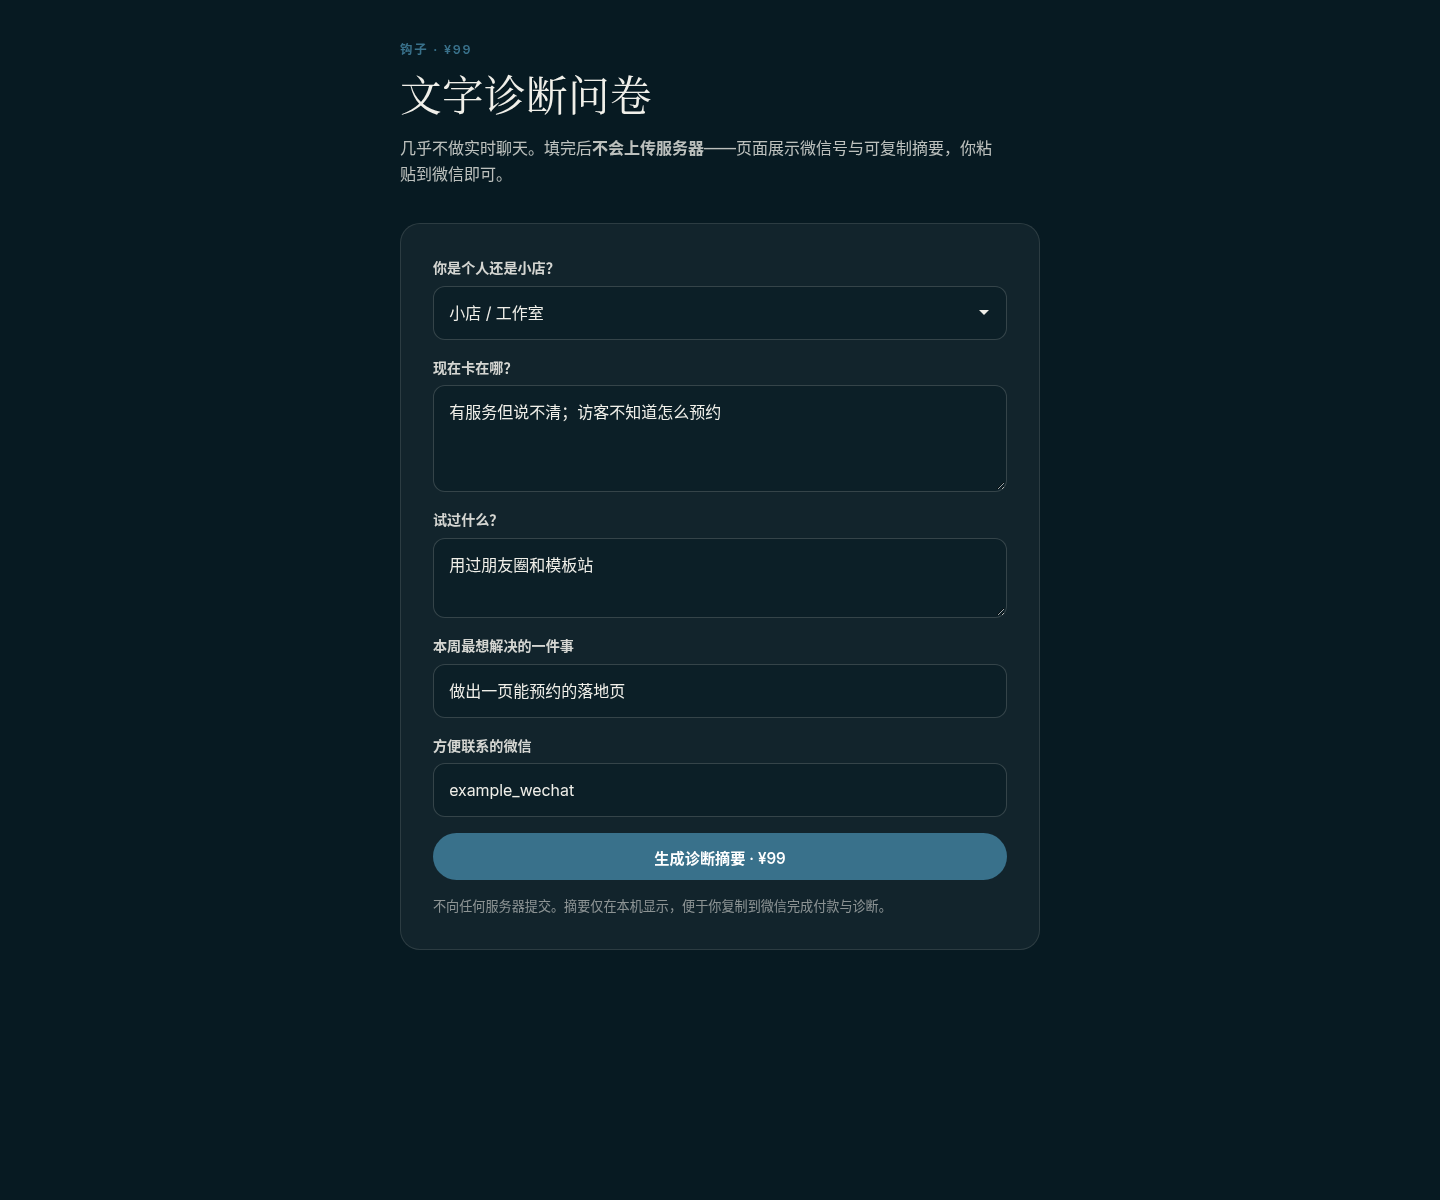
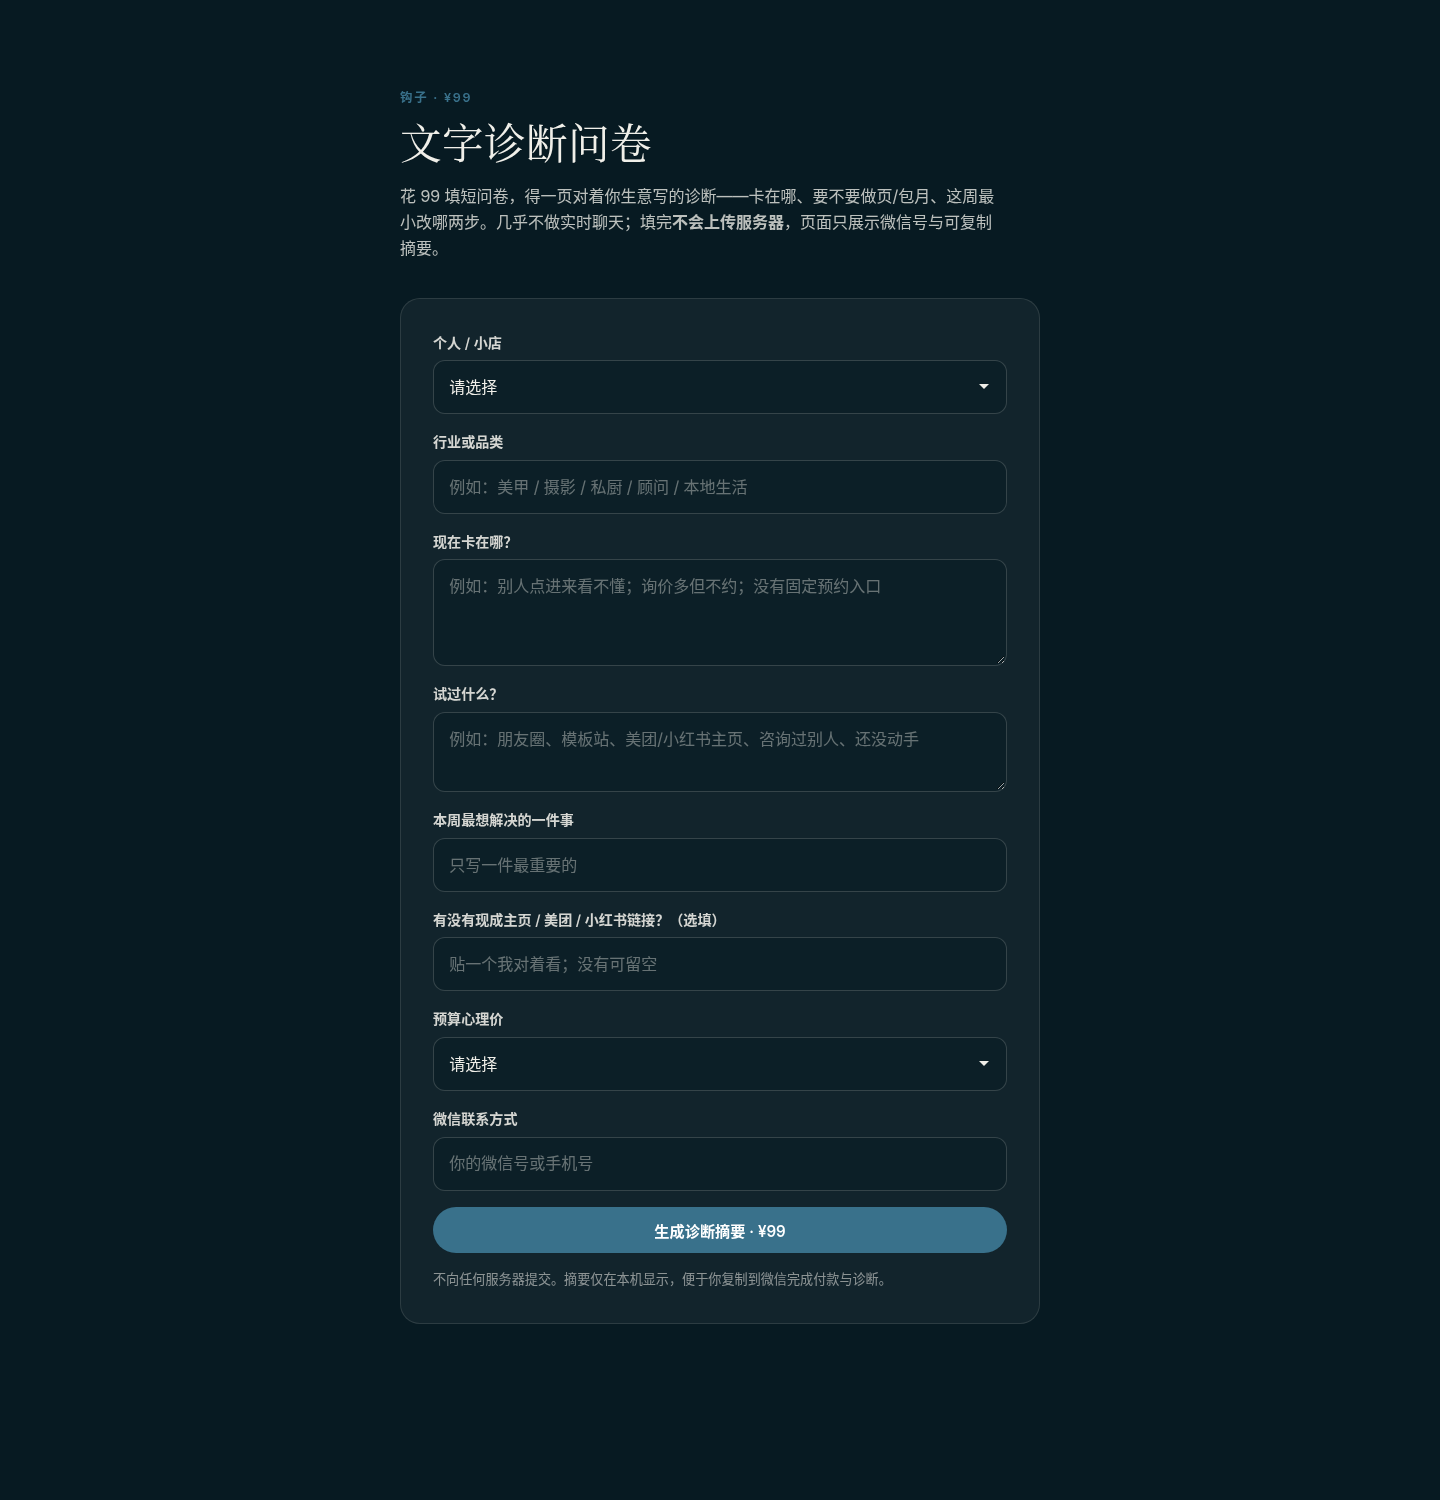
feat: align 99 diagnosis fields with copy pack
Eight fields: who, industry, stuck, tried, this week, links,
budget, WeChat. Hook sell line matches 99-diagnosis-pack.

Changed region(s): [[0.2812, 0.4317, 0.7188, 0.8633], [0.2812, 0.2158, 0.5938, 0.4008], [0.2812, 0.0308, 0.6875, 0.185]]

diff --git a/index.html b/index.html
@@ -40,8 +40,8 @@
         <p class="eyebrow">主推 · 企业落地页 / 小工具定制</p>
         <h1>一页说清价值，<br />或做一个能跑通的小工具。</h1>
         <p class="hero-lead">
-          面向小店、独立顾问与轻业务团队：定制落地页、预约页或浏览器端小工具，
-          可升级内容包月维护。先用 <strong>99 元文字诊断</strong> 对齐问题，再决定要不要做。
+          面向小店、独立顾问与轻业务团队：定制落地页、预约页或浏览器端小工具，可升级内容包月。
+          花 <strong>99</strong> 填短问卷，得一页对着你生意写的诊断——卡在哪、要不要做页/包月、这周最小改哪两步。
         </p>
         <div class="hero-actions">
           <a href="#offer" class="btn btn-primary">了解落地页 / 定制</a>
@@ -100,13 +100,13 @@
         <header class="section-head light">
           <p class="eyebrow">钩子 · ¥99</p>
           <h2>文字诊断问卷</h2>
-          <p class="section-desc">几乎不做实时聊天。填完后<strong>不会上传服务器</strong>——页面展示微信号与可复制摘要，你粘贴到微信即可。</p>
+          <p class="section-desc">花 99 填短问卷，得一页对着你生意写的诊断——卡在哪、要不要做页/包月、这周最小改哪两步。几乎不做实时聊天；填完<strong>不会上传服务器</strong>，页面只展示微信号与可复制摘要。</p>
         </header>
 
         <div class="booking-panel">
           <form id="diagnosis-form" class="booking-form" novalidate>
             <div class="field">
-              <label for="who">你是个人还是小店？</label>
+              <label for="who">个人 / 小店</label>
               <select id="who" name="who" required>
                 <option value="">请选择</option>
                 <option value="个人副业 / 自由职业">个人副业 / 自由职业</option>
@@ -116,19 +116,38 @@
               </select>
             </div>
             <div class="field">
+              <label for="industry">行业或品类</label>
+              <input id="industry" name="industry" type="text" required placeholder="例如：美甲 / 摄影 / 私厨 / 顾问 / 本地生活" />
+            </div>
+            <div class="field">
               <label for="stuck">现在卡在哪？</label>
-              <textarea id="stuck" name="stuck" rows="3" required placeholder="例如：有服务但说不清；访客不知道怎么预约；想做落地页不知从哪写起"></textarea>
+              <textarea id="stuck" name="stuck" rows="3" required placeholder="例如：别人点进来看不懂；询价多但不约；没有固定预约入口"></textarea>
             </div>
             <div class="field">
               <label for="tried">试过什么？</label>
-              <textarea id="tried" name="tried" rows="2" required placeholder="例如：用过朋友圈 / 模板站 / 咨询过别人 / 还没动手"></textarea>
+              <textarea id="tried" name="tried" rows="2" required placeholder="例如：朋友圈、模板站、美团/小红书主页、咨询过别人、还没动手"></textarea>
             </div>
             <div class="field">
               <label for="thisweek">本周最想解决的一件事</label>
               <input id="thisweek" name="thisweek" type="text" required placeholder="只写一件最重要的" />
             </div>
             <div class="field">
-              <label for="wechat-contact">方便联系的微信</label>
+              <label for="links">有没有现成主页 / 美团 / 小红书链接？（选填）</label>
+              <input id="links" name="links" type="text" placeholder="贴一个我对着看；没有可留空" />
+            </div>
+            <div class="field">
+              <label for="budget">预算心理价</label>
+              <select id="budget" name="budget" required>
+                <option value="">请选择</option>
+                <option value="先只想付 99 看诊断">先只想付 99 看诊断</option>
+                <option value="落地页 3千以内可考虑">落地页 3千以内可考虑</option>
+                <option value="3千–8千可谈">3千–8千可谈</option>
+                <option value="包月内容也想了解">包月内容也想了解</option>
+                <option value="还不确定 / 看诊断再说">还不确定 / 看诊断再说</option>
+              </select>
+            </div>
+            <div class="field">
+              <label for="wechat-contact">微信联系方式</label>
               <input id="wechat-contact" name="wechatContact" type="text" required placeholder="你的微信号或手机号" autocomplete="username" />
             </div>
             <button type="submit" class="btn btn-primary btn-block">生成诊断摘要 · ¥99</button>
@@ -288,7 +307,7 @@
           </details>
           <details class="faq-item">
             <summary>99 元文字诊断怎么进行？</summary>
-            <p>填写本页问卷 → 复制摘要加微信 → 付款后以文字形式反馈。几乎不做实时连麦，适合先对齐问题再决定要不要做落地页。</p>
+            <p>填写本页短问卷 → 复制摘要加微信 → 付 99 后以文字形式反馈：卡在哪、要不要做页/包月、这周最小改哪两步。几乎不做实时连麦。</p>
           </details>
           <details class="faq-item">
             <summary>问卷提交后会发生什么？</summary>

diff --git a/app.js b/app.js
@@ -52,15 +52,21 @@
   }
 
   function buildSummary(data) {
-    return [
+    var lines = [
       "【99元文字诊断】",
-      "身份：" + data.who,
-      "卡点：" + data.stuck,
-      "试过：" + data.tried,
+      "个人/小店：" + data.who,
+      "行业或品类：" + data.industry,
+      "现在卡在哪：" + data.stuck,
+      "试过什么：" + data.tried,
       "本周最想解决：" + data.thisweek,
-      "方便联系的微信：" + data.wechatContact,
-      "—— 来自落地页诊断问卷（未自动提交服务器）",
-    ].join("\n");
+    ];
+    if (data.links) {
+      lines.push("现成链接：" + data.links);
+    }
+    lines.push("预算心理价：" + data.budget);
+    lines.push("微信联系方式：" + data.wechatContact);
+    lines.push("—— 来自落地页诊断问卷（未自动提交服务器）");
+    return lines.join("\n");
   }
 
   if (form) {
@@ -72,9 +78,12 @@
       }
       var data = {
         who: (form.who.value || "").trim(),
+        industry: (form.industry.value || "").trim(),
         stuck: (form.stuck.value || "").trim(),
         tried: (form.tried.value || "").trim(),
         thisweek: (form.thisweek.value || "").trim(),
+        links: (form.links.value || "").trim(),
+        budget: (form.budget.value || "").trim(),
         wechatContact: (form.wechatContact.value || "").trim(),
       };
       summaryEl.textContent = buildSummary(data);

diff --git a/README.md b/README.md
@@ -51,7 +51,7 @@ var WECHAT_ID = "你的微信号";
 
 ## 诊断问卷行为
 
-提交后**不会**请求任何服务器。页面展示微信号与可复制摘要，用户手动加微信并粘贴。字段：个人/小店、卡点、试过什么、本周最想解决的一件事、方便联系的微信。
+提交后**不会**请求任何服务器。页面展示微信号与可复制摘要，用户手动加微信并粘贴。字段对齐文案包：个人/小店、行业或品类、现在卡在哪、试过什么、本周最想解决的一件事、现成主页/美团/小红书链接、预算心理价、微信联系方式。
 
 ## 文件结构
 
